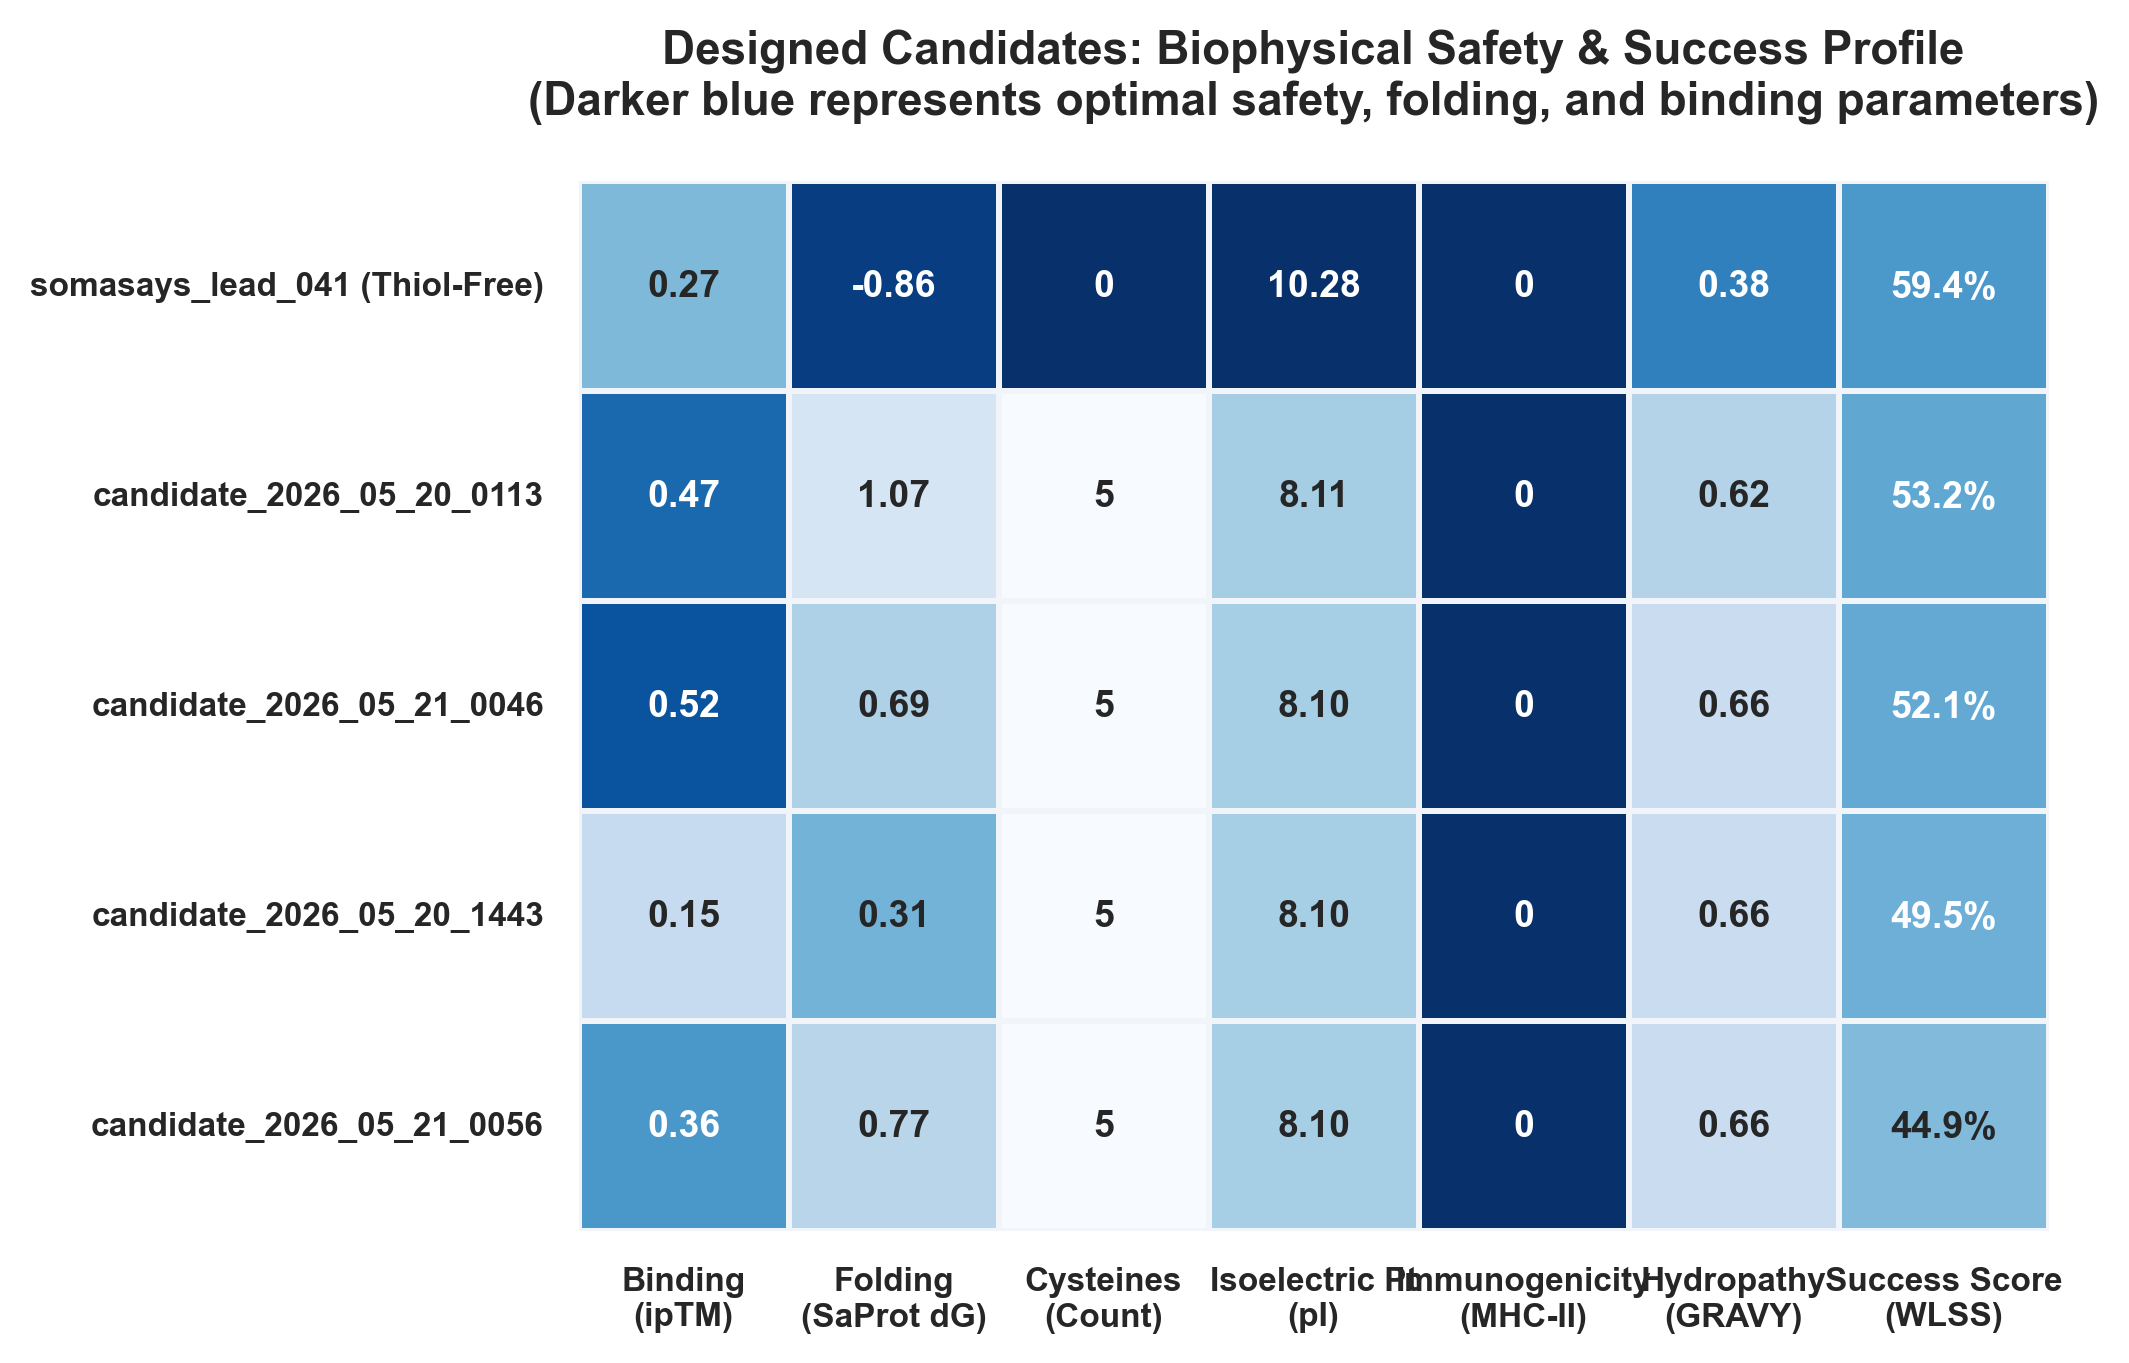
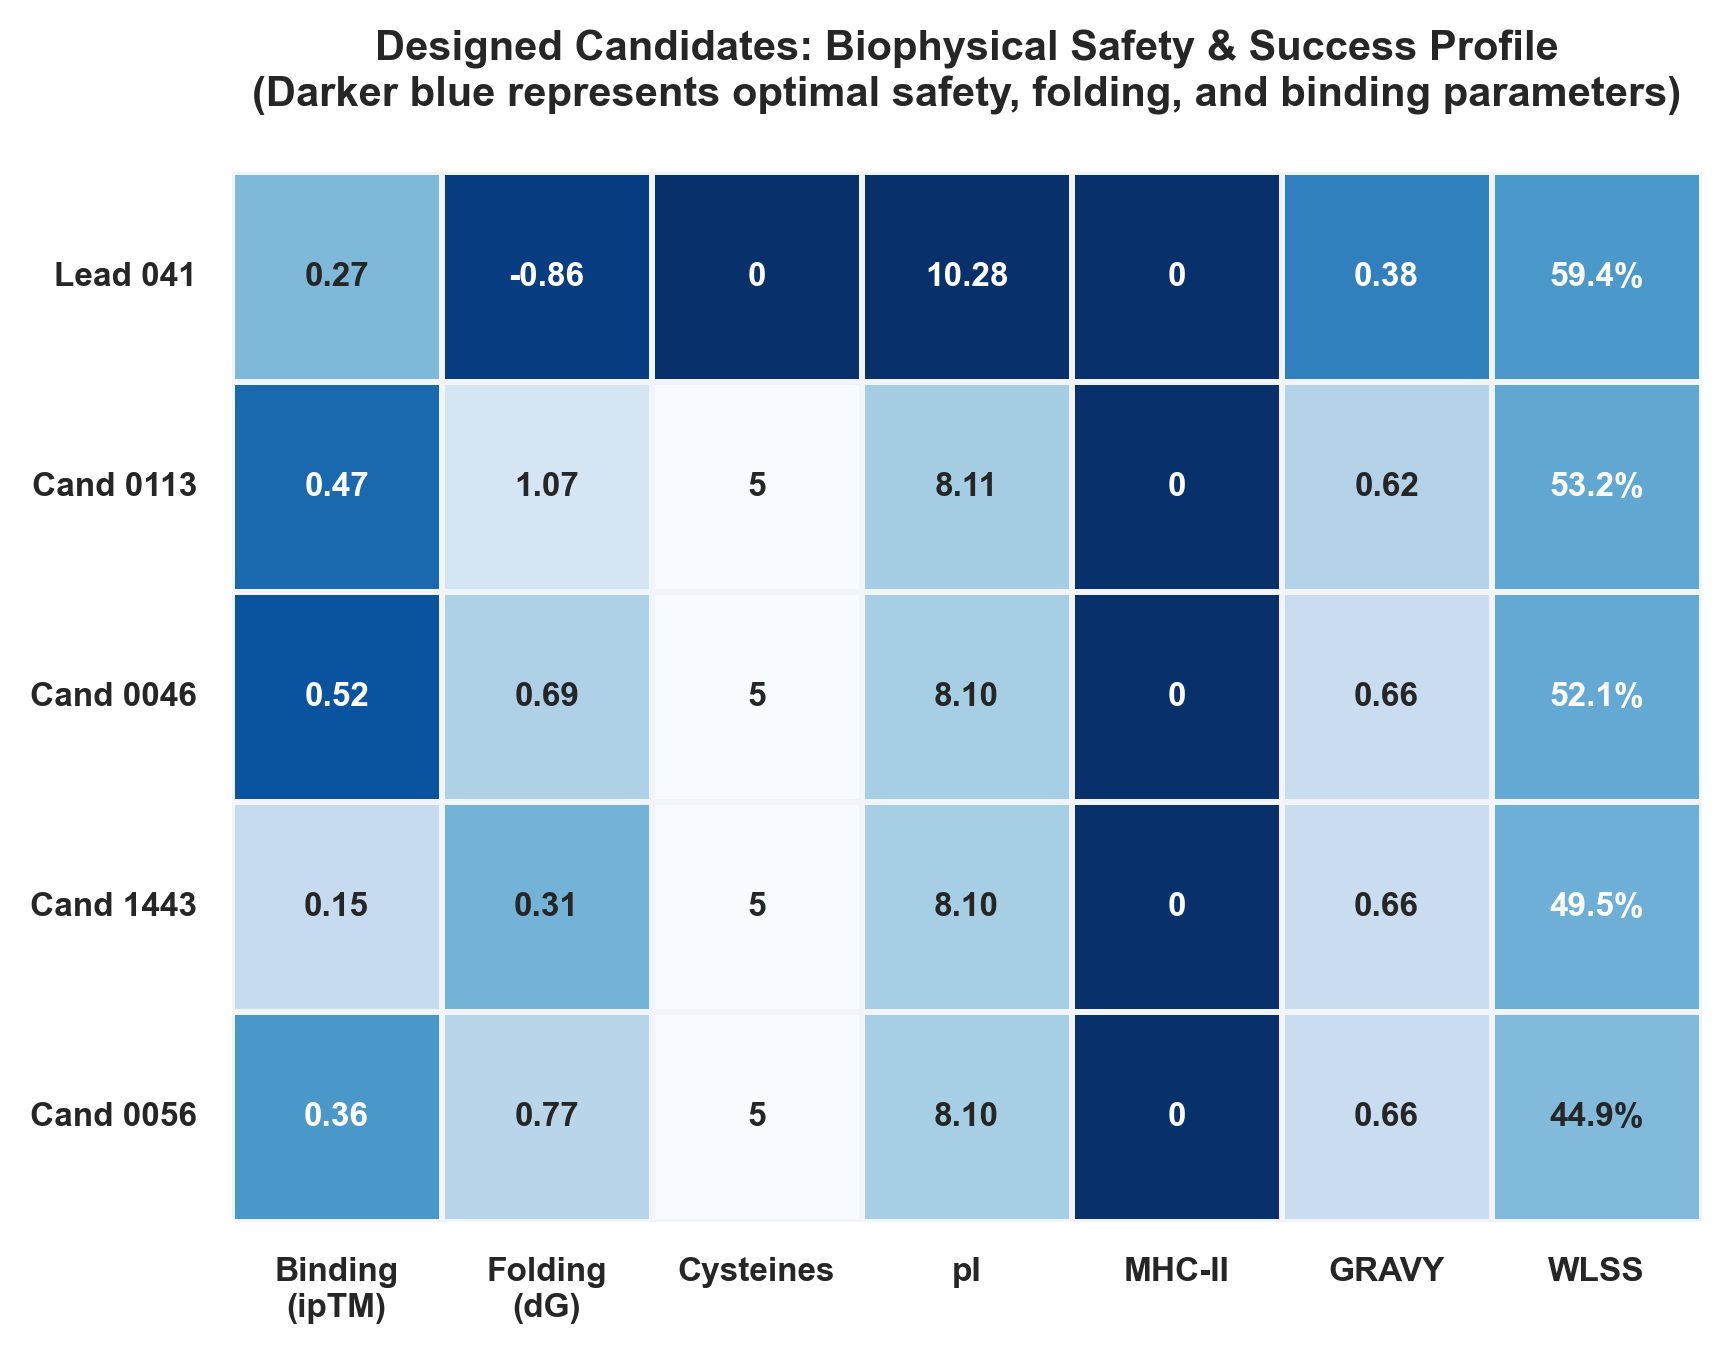
fix: center heatmap title and simplify y-axis candidate names

diff --git a/evaluation_and_rescue/plot_scientific_insights.py b/evaluation_and_rescue/plot_scientific_insights.py
@@ -203,16 +203,15 @@ def plot_biophysical_heatmap(csv_path: str, out_img: str):
     candidates = df_sorted['candidate_name'].values
     clean_names = []
     for name in candidates:
-        if "cysteine_free" in name or "041" in name:
-            clean_names.append("somasays_lead_041 (Thiol-Free)")
+        if "041" in name:
+            clean_names.append("Lead 041")
         else:
-            name_clean = name.replace("fold_", "")
+            name_clean = name.replace("fold_", "").replace("candidate_", "")
             parts = name_clean.split("_")
-            if len(parts) >= 4:
-                # E.g. "2026_05_20_01_13" -> "candidate_2026_05_20_0113"
-                clean_names.append(f"candidate_{'_'.join(parts[:-2])}_{parts[-2]}{parts[-1]}")
+            if len(parts) >= 2:
+                clean_names.append(f"Cand {parts[-2]}{parts[-1]}")
             else:
-                clean_names.append(name)
+                clean_names.append(name_clean)
 
     color_grid = []
     annot_grid = []
@@ -251,12 +250,12 @@ def plot_biophysical_heatmap(csv_path: str, out_img: str):
 
     metrics = [
         "Binding\n(ipTM)", 
-        "Folding\n(SaProt dG)", 
-        "Cysteines\n(Count)", 
-        "Isoelectric Pt\n(pI)", 
-        "Immunogenicity\n(MHC-II)", 
-        "Hydropathy\n(GRAVY)", 
-        "Success Score\n(WLSS)"
+        "Folding\n(dG)", 
+        "Cysteines", 
+        "pI", 
+        "MHC-II", 
+        "GRAVY", 
+        "WLSS"
     ]
 
     # Convert to DataFrames
@@ -264,8 +263,8 @@ def plot_biophysical_heatmap(csv_path: str, out_img: str):
     annot_df = pd.DataFrame(annot_grid, index=clean_names, columns=metrics)
 
     # Plot Seaborn Heatmap
-    # We use (10, 5) with square=True to make the cells perfectly square and clean
-    fig, ax = plt.subplots(figsize=(10, 5), dpi=300)
+    # We increase the width to 11 inches to give columns more breathing room and prevent overlaps
+    fig, ax = plt.subplots(figsize=(11, 5), dpi=300)
     
     # Minimal blue sequential colormap
     cmap = sns.color_palette("Blues", as_cmap=True)
@@ -280,16 +279,16 @@ def plot_biophysical_heatmap(csv_path: str, out_img: str):
         cbar=False,
         vmin=0.0, vmax=1.0,
         square=True,
-        annot_kws={"fontsize": 9, "fontweight": "bold"},
+        annot_kws={"fontsize": 8, "fontweight": "bold"},
         ax=ax
     )
 
-    plt.title("Designed Candidates: Biophysical Safety & Success Profile\n(Darker blue represents optimal safety, folding, and binding parameters)", pad=16, fontweight="bold", fontsize=11)
+    ax.set_title("Designed Candidates: Biophysical Safety & Success Profile\n(Darker blue represents optimal safety, folding, and binding parameters)", pad=16, fontweight="bold", fontsize=10, loc="center")
     plt.xticks(rotation=0, fontsize=8, fontweight="bold")
     plt.yticks(rotation=0, fontsize=8, fontweight="bold")
     
-    # We adjust padding, and use bbox_inches="tight" on save to make it perfect
-    plt.subplots_adjust(left=0.25, right=0.98, top=0.85, bottom=0.15)
+    # We adjust padding with a smaller left margin now that candidate names are minimal
+    plt.subplots_adjust(left=0.12, right=0.98, top=0.85, bottom=0.15)
     
     plt.savefig(out_img, bbox_inches="tight")
     plt.close()
